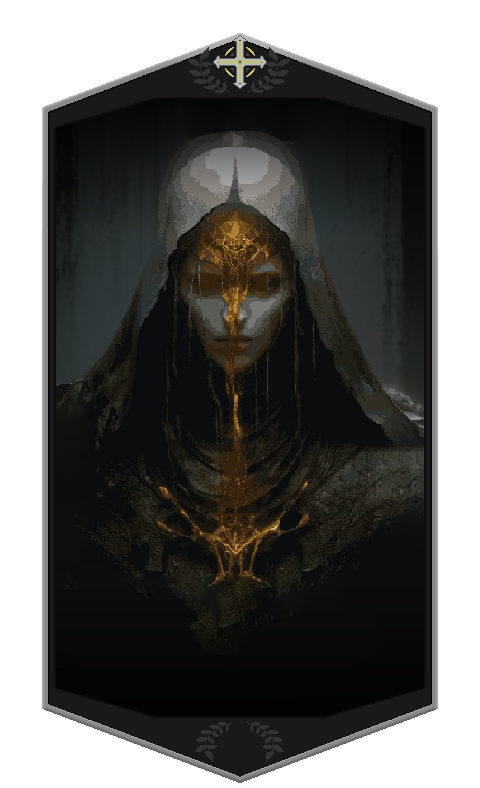
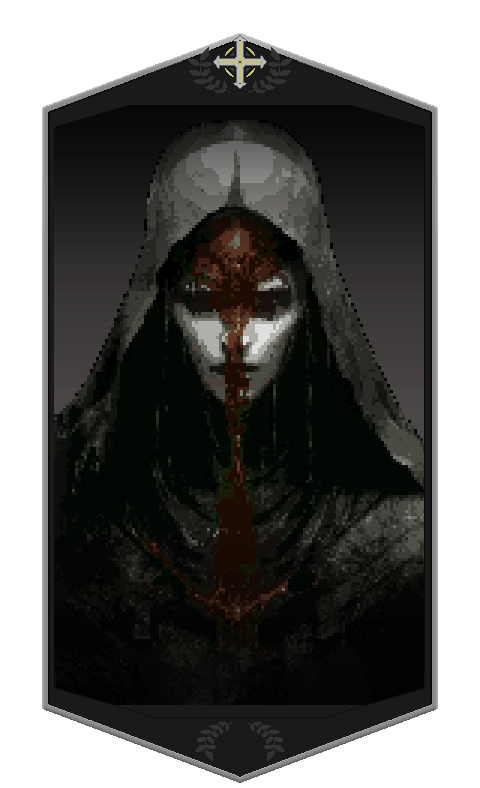
feat : 버프 이미지 추가

diff --git a/Assets/Script/Unit/Buff/Buff_Edified.cs b/Assets/Script/Unit/Buff/Buff_Edified.cs
@@ -8,9 +8,9 @@ public class Buff_Edified : Buff
 
         _name = "Edified";
 
-        _sprite = GameManager.Resource.Load<Sprite>($"Arts/Buff/Buff_Benediction_Sprite");
+        _sprite = GameManager.Resource.Load<Sprite>($"Arts/Buff/Buff_Edified_Sprite");
 
-        _description = "Edified";
+        _description = "Edified Info";
 
         _count = -1;
 

diff --git a/Assets/Script/Unit/Buff/Buff_Karma.cs b/Assets/Script/Unit/Buff/Buff_Karma.cs
@@ -9,7 +9,7 @@ public class Buff_Karma : Buff
 
         _name = "Karma";
 
-        _sprite = GameManager.Resource.Load<Sprite>($"Arts/Buff/Buff_Benediction_Sprite");
+        _sprite = GameManager.Resource.Load<Sprite>($"Arts/Buff/Buff_Vice_Sprite");
 
         _description = "When attacked, reduces the faith of the attacking enemy unit by 1.";
 

diff --git a/Assets/Script/Unit/Buff/Buff_Stun.cs b/Assets/Script/Unit/Buff/Buff_Stun.cs
@@ -5,7 +5,7 @@ public class Buff_Stun : Buff
     {
         _buffEnum = BuffEnum.Stun;
 
-        _sprite = GameManager.Resource.Load<Sprite>($"Arts/Buff/Buff_DeathStrike_Sprite");
+        _sprite = GameManager.Resource.Load<Sprite>($"Arts/Buff/Buff_Stun_Sprite");
 
         _name = "Stun";
 
